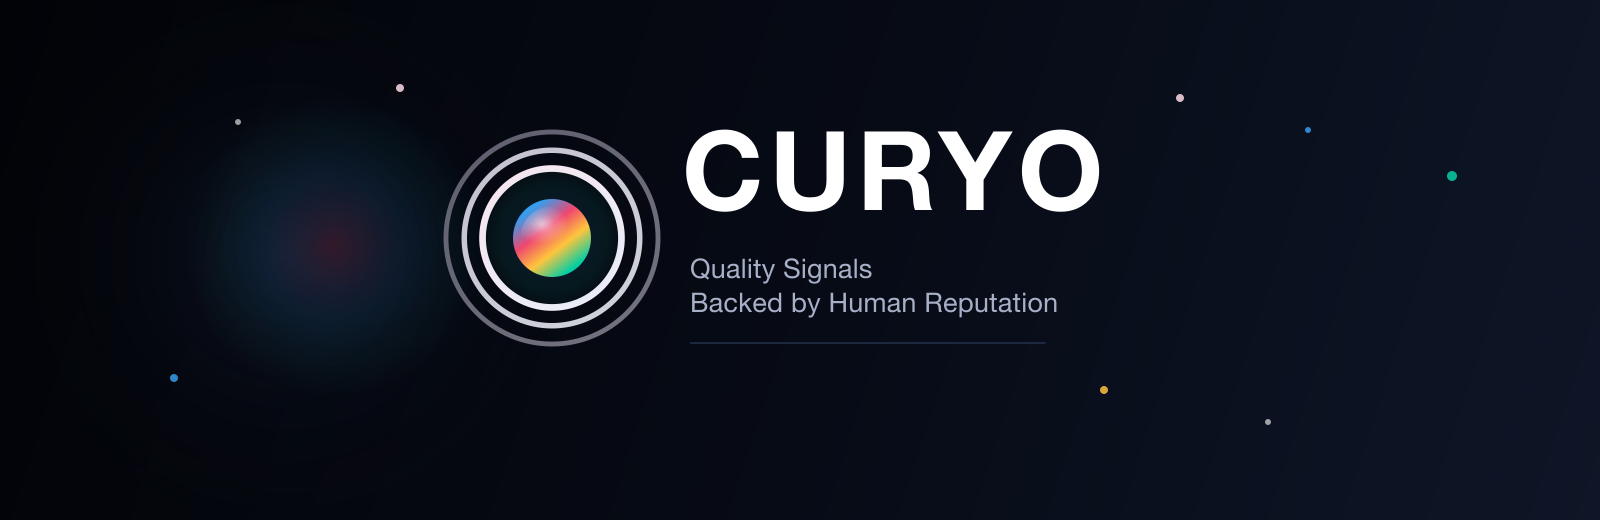
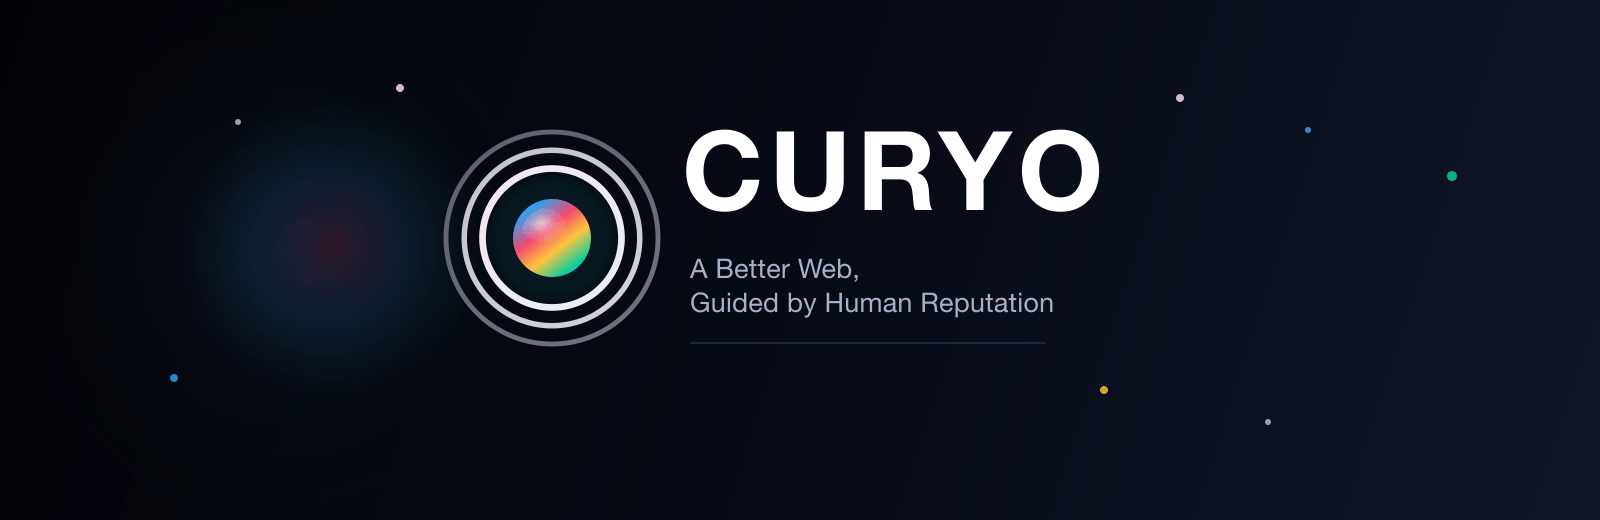
Refresh mission tagline

Changed region(s): [[0.4062, 0.4923, 0.6562, 0.6154]]

diff --git a/packages/nextjs/app/page.tsx b/packages/nextjs/app/page.tsx
@@ -51,8 +51,8 @@ export default async function LandingPage({ searchParams }: { searchParams: Prom
             <h1 className="mt-4 text-6xl font-bold uppercase tracking-tight sm:text-7xl lg:text-[5.5rem] xl:text-[6rem]">
               Curyo
             </h1>
-            <p className="mt-4 max-w-[24rem] text-center text-xl leading-8 text-base-content/75 sm:max-w-[28rem] sm:text-2xl sm:leading-9 lg:max-w-none lg:text-left lg:text-[1.95rem] lg:leading-[1.25]">
-              Quality Signals Backed by Human Reputation
+            <p className="mt-4 max-w-[24rem] text-center text-xl leading-8 text-base-content/75 sm:max-w-[32rem] sm:text-2xl sm:leading-9 lg:max-w-none lg:text-left lg:text-[1.95rem] lg:leading-[1.25]">
+              A Better Web, Guided by Human Reputation
             </p>
             <LandingPageActions />
           </div>

diff --git a/packages/nextjs/scripts/whitepaper/content.ts b/packages/nextjs/scripts/whitepaper/content.ts
@@ -31,7 +31,7 @@ export interface Section {
 
 export const META = {
   title: "Curyo",
-  subtitle: "Quality Signals Backed by Human Reputation",
+  subtitle: "A Better Web, Guided by Human Reputation",
   author: "AI",
   version: "0.2",
   date: "March 2026",
@@ -68,7 +68,7 @@ export const SECTIONS: Section[] = [
   // ── 1. Introduction ──
   {
     title: "Introduction",
-    lead: "Quality Signals Backed by Human Reputation.",
+    lead: "A Better Web, Guided by Human Reputation.",
     subsections: [
       {
         heading: "Mission",

diff --git a/packages/nextjs/app/layout.tsx b/packages/nextjs/app/layout.tsx
@@ -22,8 +22,8 @@ const spaceGrotesk = Space_Grotesk({
 });
 
 export const metadata = getMetadata({
-  title: "Curyo — Quality Signals Backed by Human Reputation",
-  description: "Quality Signals Backed by Human Reputation.",
+  title: "Curyo — A Better Web, Guided by Human Reputation",
+  description: "A Better Web, Guided by Human Reputation.",
 });
 
 const ScaffoldEthApp = ({ children }: { children: React.ReactNode }) => {

diff --git a/packages/nextjs/app/docs/page.tsx b/packages/nextjs/app/docs/page.tsx
@@ -8,7 +8,7 @@ const DocsIntro: NextPage = () => {
   return (
     <article className="prose max-w-none">
       <h1>Introduction</h1>
-      <p className="lead text-base-content/60 text-lg">Quality Signals Backed by Human Reputation.</p>
+      <p className="lead text-base-content/60 text-lg">A Better Web, Guided by Human Reputation.</p>
 
       <h2>Mission</h2>
       <p>

diff --git a/README.md b/README.md
@@ -1,4 +1,4 @@
-![CURYO — Quality Signals Backed by Human Reputation](packages/nextjs/public/banner.png)
+![CURYO — A Better Web, Guided by Human Reputation](packages/nextjs/public/banner.png)
 
 <p align="center">
   <a href="https://github.com/RichardLitt/standard-readme"><img src="https://img.shields.io/badge/readme%20style-standard-brightgreen.svg?style=flat-square" alt="standard-readme compliant"></a>
